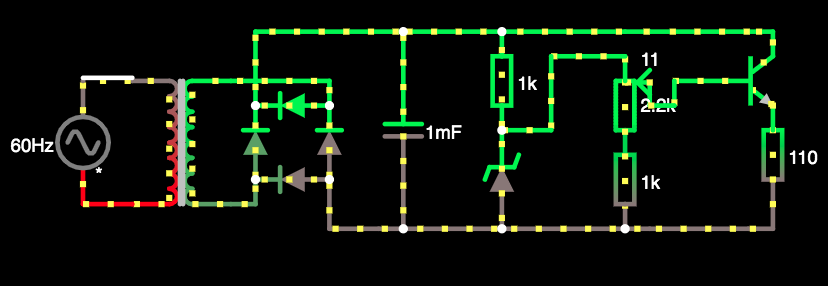
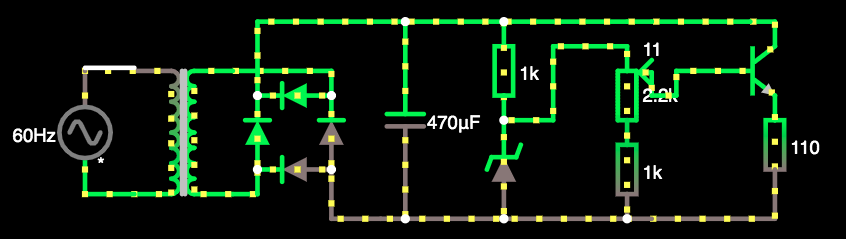
Fix description

Changed region(s): [[0.0, 0.0586, 0.9964, 0.9372]]

diff --git a/README.md b/README.md
@@ -17,11 +17,11 @@
 | 1x |[Transformador](https://produto.mercadolivre.com.br/MLB-1253723183-transformador-trafo-2424v-300ma-bivolt-eletronica-_JM?matt_tool=82322591&matt_word&gclid=Cj0KCQjw3Nv3BRC8ARIsAPh8hgLXZgnFr5Hp9iApZDPNMp8cpAg7tn35FChWVQIqDIILeqjcO1U_S98aArt6EALw_wcB&quantity=1) | 24V e 300mA | R$29,99 |
 | 4x |[Diodo](https://www.autoeletronica.net/produtos/diodo-retificador-1n5404) | 400V e 3A | R$0,38 |
 | 1x |[Kit resistores](https://produto.mercadolivre.com.br/MLB-1508963482-kit-resistores-essenciais-14w-500pcs-escolha-10-valores-_JM?matt_tool=79246729&matt_word&gclid=Cj0KCQjw3Nv3BRC8ARIsAPh8hgIupt2nVKXXqpCT_FToIKbaTNeMJ-NzZfGllE_OkiuEosBMVT6fUeoaAgiaEALw_wcB&quantity=1) | 10Ω/100Ω/1kΩ | R$30,00 |
-| 1x |[Capacitor](https://produto.mercadolivre.com.br/MLB-1499835576-capacitor-eletrolitico-1mf-x-400v-kit-c10-pcs-_JM?quantity=1#position=1&type=item&tracking_id=fa215f29-9e58-4df8-935f-7aea9beaf1e2) | 1mF | R$2,87 |
+| 1x |[Capacitor](https://www.eletrogate.com/capacitor-eletrolitico-470uf-x-50v?utm_source=Site&utm_medium=GoogleMerchant&utm_campaign=GoogleMerchant&gclid=Cj0KCQjw3Nv3BRC8ARIsAPh8hgJ2Kgakz5yJfnDUHAmi37V7dUP6w2IKSyBl1VksmPlQwvk_MMea2ZgaAmnKEALw_wcB) | 470uF | R$0,90 |
 | 1x |[Diodo Zener](https://www.americanas.com.br/produto/1397103736?opn=YSMESP&sellerid=4145166000157&epar=bp_pl_00_go_am_todas_geral_gmv&WT.srch=1&acc=e789ea56094489dffd798f86ff51c7a9&i=5dd8ae5049f937f6254fab94&o=5df60079f8e95eac3dac6177&gclid=Cj0KCQjw3Nv3BRC8ARIsAPh8hgIL562GLJVjPZFYEWPE8kXANQGuBsye2JKJisaPoG6w3PX7TJy3cGIaAltrEALw_wcB) | 13V e 1W | R$0,60 |
 | 1x |[Potenciômetro](https://pt.aliexpress.com/item/32848715135.html?src=google&src=google&albch=shopping&acnt=494-037-6276&isdl=y&slnk=&plac=&mtctp=&albbt=Gploogle_7_shopping&aff_atform=google&aff_short_key=UneMJZVf&&albagn=888888&albcp=7303158455&albag=86143156931&trgt=883147839979&crea=pt32848715135&netw=u&device=c&albpg=883147839979&albpd=pt32848715135&gclid=Cj0KCQjw3Nv3BRC8ARIsAPh8hgJCE_fC1pTmLaH6x_OhnIQIG1EOQxaMdB_r3-dds5elVMA30CBOIDAaAkRLEALw_wcB&gclsrc=aw.ds) | 2.2kΩ | R$7,64 |
 | 1x |[Transistor](https://www.robocore.net/loja/itens-eletronicos/transistor-npn-tip122?gclid=Cj0KCQjw3Nv3BRC8ARIsAPh8hgLH4DNOuhtfnZSzVS-3N3OBPhqspcy9cVkdt3Z7M0HruGtxnt3bOhQaAqJKEALw_wcB) | NPN TIP122 | R$1,75 |
-|Custo Total || | **R$82,37** |
+|Custo Total || | **R$80,40** |
 
-### Fonte no Falstad **[aqui](http://tinyurl.com/ycol5qhn)**
+### Fonte no Falstad **[aqui](http://tinyurl.com/ycol5qhn)** (Obs: no video o capacitor é de 1mf, porem corrigimos para 470uf).
 ### Video de explicação do projeto **[aqui](https://drive.google.com/file/d/12O8wWkuYkDU50aEyllq8cBlEbAP9AQjk/view?usp=sharing)**
